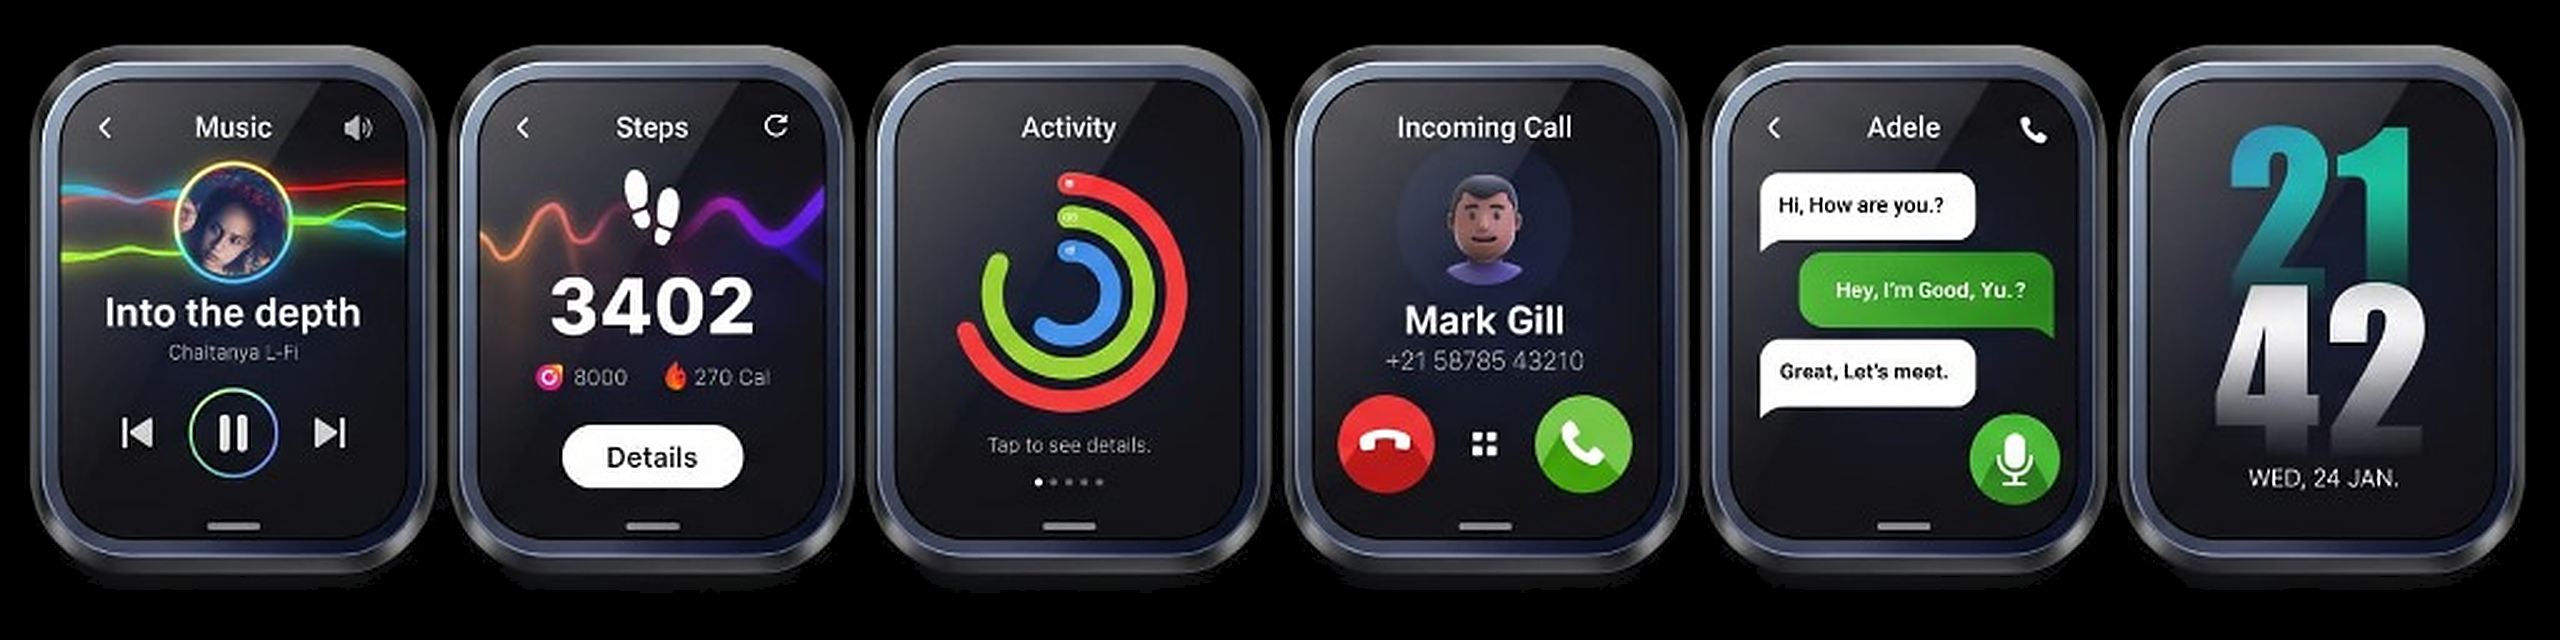
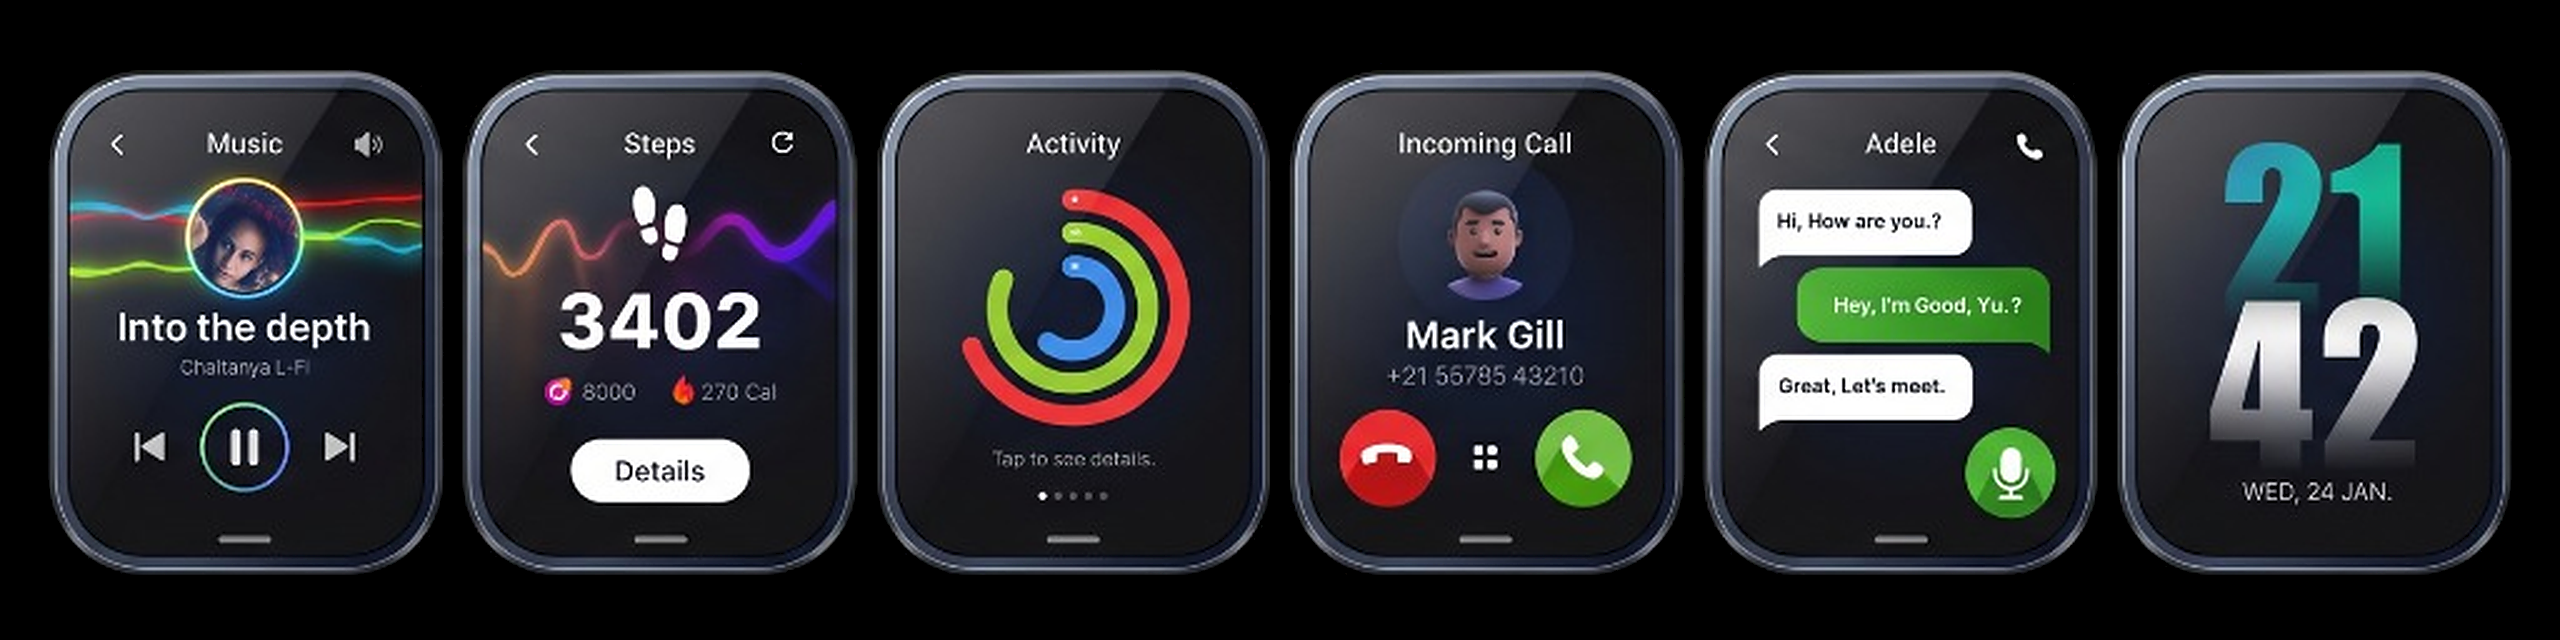
fix: update watch faces image and remove double slashes from all badges across the site

diff --git a/components/InteractiveSpecsSection.js b/components/InteractiveSpecsSection.js
@@ -582,7 +582,7 @@ export default function InteractiveSpecsSection() {
                   <div className="inline-flex items-center gap-1.5 px-2.5 py-1 rounded-lg bg-[#3a86ff]/10 border border-[#3a86ff]/25 text-[#3a86ff]">
                     <span className="w-1.5 h-1.5 rounded-full bg-[#3a86ff] shadow-[0_0_8px_#3a86ff] animate-pulse" />
                     <span className="font-mono text-[10px] sm:text-xs font-bold tracking-widest uppercase">
-                      01 // AEROSPACE CHASSIS
+                      01 — AEROSPACE CHASSIS
                     </span>
                   </div>
 
@@ -606,7 +606,7 @@ export default function InteractiveSpecsSection() {
 
                 {/* Subtitle */}
                 <p className="font-mono text-[11px] sm:text-xs text-[#3a86ff] font-medium tracking-wide mb-2 sm:mb-2.5">
-                  Ti-6Al-4V Aerospace Ingot // 5-Axis CNC Facets
+                  Ti-6Al-4V Aerospace Ingot • 5-Axis CNC Facets
                 </p>
 
                 {/* Description */}
@@ -659,7 +659,7 @@ export default function InteractiveSpecsSection() {
                   <div className="inline-flex items-center gap-1.5 px-2.5 py-1 rounded-lg bg-[#3a86ff]/10 border border-[#3a86ff]/25 text-[#3a86ff]">
                     <span className="w-1.5 h-1.5 rounded-full bg-[#3a86ff] shadow-[0_0_8px_#3a86ff] animate-pulse" />
                     <span className="font-mono text-[10px] sm:text-xs font-bold tracking-widest uppercase">
-                      03 // BIONIC CORE
+                      03 — BIONIC CORE
                     </span>
                   </div>
 
@@ -683,7 +683,7 @@ export default function InteractiveSpecsSection() {
 
                 {/* Subtitle */}
                 <p className="font-mono text-[11px] sm:text-xs text-[#3a86ff] font-medium tracking-wide mb-2 sm:mb-2.5">
-                  4nm Neural Silicon Substrate // 8-Ch Optical Array
+                  4nm Neural Silicon Substrate • 8-Ch Optical Array
                 </p>
 
                 {/* Description */}
@@ -721,7 +721,7 @@ export default function InteractiveSpecsSection() {
                 {/* Clean Feature Line */}
                 <div className="mt-2.5 pt-2 border-t border-white/5 flex items-center gap-2 text-[10px] sm:text-[11px] font-mono text-slate-300">
                   <Compass className="w-3.5 h-3.5 text-[#3a86ff] flex-shrink-0" />
-                  <span className="truncate">±0.001 ms Atomic Accuracy // Real-time Telemetry</span>
+                  <span className="truncate">±0.001 ms Atomic Accuracy • Real-time Telemetry</span>
                 </div>
               </div>
 
@@ -744,7 +744,7 @@ export default function InteractiveSpecsSection() {
                   <div className="inline-flex items-center gap-1.5 px-2.5 py-1 rounded-lg bg-[#3a86ff]/10 border border-[#3a86ff]/25 text-[#3a86ff]">
                     <span className="w-1.5 h-1.5 rounded-full bg-[#3a86ff] shadow-[0_0_8px_#3a86ff] animate-pulse" />
                     <span className="font-mono text-[10px] sm:text-xs font-bold tracking-widest uppercase">
-                      02 // OPTICAL SHIELD
+                      02 — OPTICAL SHIELD
                     </span>
                   </div>
 
@@ -768,7 +768,7 @@ export default function InteractiveSpecsSection() {
 
                 {/* Subtitle */}
                 <p className="font-mono text-[11px] sm:text-xs text-[#3a86ff] font-medium tracking-wide mb-2 sm:mb-2.5">
-                  Dual-Curved Synthetic Sapphire // 120Hz Dynamic
+                  Dual-Curved Synthetic Sapphire • 120Hz Dynamic
                 </p>
 
                 {/* Description */}
@@ -806,7 +806,7 @@ export default function InteractiveSpecsSection() {
                 {/* Clean Feature Line */}
                 <div className="mt-2.5 pt-2 border-t border-white/5 flex items-center gap-2 text-[10px] sm:text-[11px] font-mono text-slate-300">
                   <Cpu className="w-3.5 h-3.5 text-[#3a86ff] flex-shrink-0" />
-                  <span className="truncate">480 × 480 Resolution // 454 PPI True Retina</span>
+                  <span className="truncate">480 × 480 Resolution • 454 PPI True Retina</span>
                 </div>
               </div>
 
@@ -821,7 +821,7 @@ export default function InteractiveSpecsSection() {
                   <div className="inline-flex items-center gap-1.5 px-2.5 py-1 rounded-lg bg-[#3a86ff]/10 border border-[#3a86ff]/25 text-[#3a86ff]">
                     <span className="w-1.5 h-1.5 rounded-full bg-[#3a86ff] shadow-[0_0_8px_#3a86ff] animate-pulse" />
                     <span className="font-mono text-[10px] sm:text-xs font-bold tracking-widest uppercase">
-                      04 // HERMETIC SEAL & POWER
+                      04 — HERMETIC SEAL & POWER
                     </span>
                   </div>
 
@@ -845,9 +845,9 @@ export default function InteractiveSpecsSection() {
 
                 {/* Subtitle */}
                 <p className="font-mono text-[11px] sm:text-xs text-[#3a86ff] font-medium tracking-wide mb-2 sm:mb-2.5">
-                  Solid Polymer Battery // 100% Helium Chamber Tested
+                  Solid Polymer Battery • 100% Helium Chamber Tested
                 </p>
-
+                
                 {/* Description */}
                 <p className="text-slate-300 text-xs sm:text-sm font-light leading-relaxed mb-3 sm:mb-3.5 line-clamp-2 sm:line-clamp-none">
                   Chamber-tested with 100% helium sniffer verification to ensure absolute water resistance up to 10 ATM. Solid polymer battery matrix delivers up to 72 hours of uninterrupted biometrics.
@@ -883,7 +883,7 @@ export default function InteractiveSpecsSection() {
                 {/* Clean Feature Line */}
                 <div className="mt-2.5 pt-2 border-t border-white/5 flex items-center gap-2 text-[10px] sm:text-[11px] font-mono text-slate-300">
                   <Zap className="w-3.5 h-3.5 text-[#3a86ff] flex-shrink-0" />
-                  <span className="truncate">Rapid Magnetic Induction // 0–80% in 35 Minutes</span>
+                  <span className="truncate">Rapid Magnetic Induction • 0–80% in 35 Minutes</span>
                 </div>
               </div>
 
@@ -909,7 +909,7 @@ export default function InteractiveSpecsSection() {
               <div className="inline-flex items-center gap-1.5 px-2.5 py-1 rounded-lg bg-[#3a86ff]/10 border border-[#3a86ff]/25 mb-2 sm:mb-2.5 text-[#3a86ff]">
                 <span className="w-1.5 h-1.5 rounded-full bg-[#3a86ff] shadow-[0_0_8px_#3a86ff] animate-pulse" />
                 <span className="font-mono text-[9px] sm:text-xs font-bold tracking-widest uppercase">
-                  TECHNICAL BLUEPRINT // COMPLETE MATRIX
+                  TECHNICAL BLUEPRINT & SPECIFICATIONS
                 </span>
               </div>
 
@@ -935,7 +935,7 @@ export default function InteractiveSpecsSection() {
                     Grade 5 Ti-6Al-4V
                   </strong>
                   <span className="text-[10px] sm:text-xs text-[#3a86ff] font-mono mt-0.5 block truncate">
-                    64g // 3,200 HV DLC
+                    64g • 3,200 HV DLC
                   </span>
                 </div>
 
@@ -951,7 +951,7 @@ export default function InteractiveSpecsSection() {
                     Ultra AMOLED
                   </strong>
                   <span className="text-[10px] sm:text-xs text-[#3a86ff] font-mono mt-0.5 block truncate">
-                    3,000 Nits // Mohs 9
+                    3,000 Nits • Mohs 9
                   </span>
                 </div>
 
@@ -967,7 +967,7 @@ export default function InteractiveSpecsSection() {
                     Neural S-01
                   </strong>
                   <span className="text-[10px] sm:text-xs text-[#3a86ff] font-mono mt-0.5 block truncate">
-                    4nm // 1,000Hz Bio
+                    4nm • 1,000Hz Bio
                   </span>
                 </div>
 
@@ -983,7 +983,7 @@ export default function InteractiveSpecsSection() {
                     10 ATM / 100M
                   </strong>
                   <span className="text-[10px] sm:text-xs text-[#3a86ff] font-mono mt-0.5 block truncate">
-                    72h // Fast Charge
+                    72h • Fast Charge
                   </span>
                 </div>
               </div>

diff --git a/components/ColorScrollerSection.js b/components/ColorScrollerSection.js
@@ -16,8 +16,8 @@ const FINISH_STAGES = [
     range: [1, 58],
     scrollTarget: 0.10,
     name: 'DLC Stealth Obsidian',
-    subtitle: 'Diamond-Like Carbon // Deep Space Black',
-    tag: 'FINISH 01 // VAPOR DEPOSITION',
+    subtitle: 'Diamond-Like Carbon — Deep Space Black',
+    tag: 'FINISH 01 — VAPOR DEPOSITION',
     description:
       'Vapor-deposited diamond crystalline matrix bonded at 400°C. Absorbs 99.2% of incident light with zero reflection, engineered for extreme covert durability.',
     swatchBg: '#18181b',
@@ -36,8 +36,8 @@ const FINISH_STAGES = [
     range: [59, 115],
     scrollTarget: 0.36,
     name: 'Natural Titanium Satin',
-    subtitle: 'Grade 5 Ti-6Al-4V // Directional Satin Brush',
-    tag: 'FINISH 02 // RAW METALLURGY',
+    subtitle: 'Grade 5 Ti-6Al-4V — Directional Satin Brush',
+    tag: 'FINISH 02 — RAW METALLURGY',
     description:
       'Sculpted from a single solid aerospace ingot. Hand-finished with micro-abrasive directional satin brushing to exhibit the raw silvery luster of Grade 5 titanium.',
     swatchBg: '#e2e8f0',
@@ -56,8 +56,8 @@ const FINISH_STAGES = [
     range: [116, 172],
     scrollTarget: 0.62,
     name: 'Crimson Burgundy Atelier',
-    subtitle: 'Micro-Arc Ceramic Anodization // Wine Red',
-    tag: 'FINISH 03 // ANODIZED COUTURE',
+    subtitle: 'Micro-Arc Ceramic Anodization — Wine Red',
+    tag: 'FINISH 03 — ANODIZED COUTURE',
     description:
       'Deep crimson wine-red anodized bezel paired with midnight burgundy link accents. Built for unmistakable presence, balancing technical prowess with haute horology.',
     swatchBg: '#881337',
@@ -76,8 +76,8 @@ const FINISH_STAGES = [
     range: [173, 239],
     scrollTarget: 0.88,
     name: 'Frosted Azure Platinum',
-    subtitle: 'High-Luster Cold Steel // Mirror Chamfers',
-    tag: 'FINISH 04 // LIQUID METAL',
+    subtitle: 'High-Luster Cold Steel — Mirror Chamfers',
+    tag: 'FINISH 04 — LIQUID METAL',
     description:
       'Precision electropolished to mirror brilliance with hand-beveled chamfers. High-density cold-forged luster creates an unyielding luxury timepiece presence.',
     swatchBg: '#38bdf8',
@@ -509,7 +509,7 @@ export default function ColorScrollerSection() {
                 </span>
               </div>
               <div className="flex items-center justify-between text-[10px] font-mono text-slate-300 pt-1 border-t border-white/10">
-                <span className="text-[#3a86ff] truncate">{currentStage.subtitle.split('//')[0].trim()}</span>
+                <span className="text-[#3a86ff] truncate">{currentStage.subtitle.split(/[//—\-]/)[0].trim()}</span>
                 <span className="text-slate-400 flex-shrink-0 ml-2">
                   {currentStage.specs[0].val} • {currentStage.specs[2].val.replace(' Ultra-Dense', '')}
                 </span>

diff --git a/components/PurchaseSection.js b/components/PurchaseSection.js
@@ -84,7 +84,7 @@ export default function PurchaseSection() {
               <div className="relative z-10 flex items-center justify-between w-full">
                 <div className="inline-flex items-center gap-2 px-3 py-1 rounded-full bg-black/60 border border-emerald-500/40 text-emerald-400 font-mono text-[10px] font-semibold tracking-wider backdrop-blur-md">
                   <span className="w-1.5 h-1.5 rounded-full bg-emerald-400 animate-ping" />
-                  <span>IN-STOCK // BATCH 01</span>
+                  <span>IN-STOCK — BATCH 01</span>
                 </div>
                 <div className="font-mono text-[10px] text-slate-400 tracking-widest px-2.5 py-1 rounded-full bg-white/5 border border-white/10 backdrop-blur-md">
                   45MM • TI-6AL-4V
@@ -148,7 +148,7 @@ export default function PurchaseSection() {
               {/* Product Title & Serial Numbering */}
               <div className="flex items-center justify-between mb-3">
                 <span className="font-mono text-xs text-[#3a86ff] font-semibold tracking-widest uppercase">
-                  DIRECT ATELIER ALLOCATION // EDITION 01
+                  DIRECT ATELIER ALLOCATION — EDITION 01
                 </span>
                 <span className="font-mono text-[11px] text-slate-500 bg-white/5 border border-white/10 px-2.5 py-0.5 rounded">
                   SERIAL #0147 / 0500
@@ -331,7 +331,7 @@ export default function PurchaseSection() {
               <form onSubmit={handleOrder} className="flex flex-col">
                 <div className="flex items-center gap-2 font-mono text-xs text-[#3a86ff] font-semibold mb-2">
                   <span className="w-2 h-2 rounded-full bg-[#3a86ff] animate-pulse" />
-                  <span>BATCH 01 // DIRECT FACTORY RESERVATION</span>
+                  <span>BATCH 01 — DIRECT FACTORY RESERVATION</span>
                 </div>
 
                 <h3 className="font-heading font-bold text-2xl sm:text-3xl text-white mb-4">

diff --git a/components/WatchFacesSection.js b/components/WatchFacesSection.js
@@ -15,7 +15,7 @@ export default function WatchFacesSection() {
           <div className="inline-flex items-center gap-2 mb-2 sm:mb-2.5">
             <span className="w-4 sm:w-5 h-[1.5px] bg-[#3a86ff] rounded-full" />
             <span className="font-mono text-[10px] sm:text-xs font-semibold tracking-[0.2em] text-[#3a86ff] uppercase">
-              VELTRIX OS // DYNAMIC INTERFACES
+              VELTRIX DYNAMIC INTERFACES
             </span>
           </div>
           <h2 className="text-2xl sm:text-3xl md:text-4xl lg:text-5xl font-extrabold text-white tracking-tight leading-tight">
@@ -29,7 +29,7 @@ export default function WatchFacesSection() {
         {/* Showcase 1 Image */}
         <div className="w-full max-w-5xl lg:max-w-6xl mx-auto relative z-10 flex items-center justify-center px-4 sm:px-6">
           <img
-            src="/images/smart-interfaces-fullscreen.png?v=v2new"
+            src="/images/smart-interfaces-fullscreen.png?v=v3clean"
             alt="VELTRIX Smart Watch Interfaces and Features"
             className="w-full h-auto block"
             loading="eager"
@@ -46,7 +46,7 @@ export default function WatchFacesSection() {
           <div className="inline-flex items-center gap-2 mb-2 sm:mb-2.5">
             <span className="w-4 sm:w-5 h-[1.5px] bg-[#3a86ff] rounded-full" />
             <span className="font-mono text-[10px] sm:text-xs font-semibold tracking-[0.2em] text-[#3a86ff] uppercase">
-              ATHLETIC TELEMETRY // REAL-TIME METRICS
+              ATHLETIC PERFORMANCE TELEMETRY
             </span>
           </div>
           <h2 className="text-2xl sm:text-3xl md:text-4xl lg:text-5xl font-extrabold text-white tracking-tight leading-tight">

diff --git a/components/WatchScrollCanvas.js b/components/WatchScrollCanvas.js
@@ -218,7 +218,7 @@ export default function WatchScrollCanvas() {
           <div className="bg-neutral-950/85 backdrop-blur-xl border border-[#001d3d]/50 px-5 py-3 rounded-full flex items-center gap-3 shadow-[0_0_30px_rgba(0,29,61,0.35)]">
             <div className="w-4 h-4 border-2 border-[#3a86ff]/20 border-t-[#3a86ff] rounded-full animate-spin flex-shrink-0" />
             <div className="font-mono text-[11px] text-slate-300 tracking-wider">
-              INITIALIZING 3D ENGINE <span className="text-[#3a86ff] font-bold">// {progressPct}%</span>
+              INITIALIZING 3D ENGINE <span className="text-[#3a86ff] font-bold">— {progressPct}%</span>
             </div>
           </div>
         </div>
@@ -233,7 +233,7 @@ export default function WatchScrollCanvas() {
         <div className="absolute top-5 sm:top-6 left-1/2 -translate-x-1/2 z-20 flex items-center gap-2 px-3.5 sm:px-4 py-1.5 sm:py-2 bg-neutral-950/85 border border-[#001d3d]/40 rounded-full backdrop-blur-xl shadow-lg pointer-events-none max-w-[90vw]">
           <span className="w-2 h-2 rounded-full bg-[#3a86ff] animate-pulse flex-shrink-0" />
           <span className="font-mono text-[10px] sm:text-[11px] text-[#3a86ff] font-semibold tracking-widest uppercase truncate">
-            VELTRIX // 3D APEX HOROLOGY
+            VELTRIX — 3D APEX HOROLOGY
           </span>
           <span className="text-white/20 font-mono text-xs">|</span>
           <span className="font-mono text-[10px] sm:text-[11px] text-slate-300 tracking-wider truncate">

diff --git a/components/ProductsSection.js b/components/ProductsSection.js
@@ -7,7 +7,7 @@ const EDITIONS = [
   {
     id: 'chrome-silver',
     name: 'Chrome Silver 2.0',
-    category: 'METALLIC // CHROME SILVER',
+    category: 'METALLIC — CHROME SILVER',
     price: '$499',
     inr: '₹42,500',
     image: '/products/mood_chrome_silver.webp',
@@ -38,7 +38,7 @@ const EDITIONS = [
   {
     id: 'gunmetal-black',
     name: 'Gunmetal Black 2.0',
-    category: 'TACTICAL // GUNMETAL DLC',
+    category: 'TACTICAL — GUNMETAL DLC',
     price: '$479',
     inr: '₹40,800',
     image: '/products/mood_gunmetal_black.webp',
@@ -69,7 +69,7 @@ const EDITIONS = [
   {
     id: 'ice-blue',
     name: 'Ice Blue',
-    category: 'EXPLORATION // ALPINE WEAVE',
+    category: 'EXPLORATION — ALPINE WEAVE',
     price: '$449',
     inr: '₹38,200',
     image: '/products/mood_ice_blue.webp',
@@ -100,7 +100,7 @@ const EDITIONS = [
   {
     id: 'dark-green',
     name: 'Dark Green',
-    category: 'SPORT // DEEP FOREST',
+    category: 'SPORT — DEEP FOREST',
     price: '$429',
     inr: '₹36,500',
     image: '/products/mood_dark_green.webp',

diff --git a/app/layout.js b/app/layout.js
@@ -1,7 +1,7 @@
 import './globals.css';
 
 export const metadata = {
-  title: 'VELTRIX // Titanium Smartwatch',
+  title: 'VELTRIX — Titanium Smartwatch',
   description: 'Pure 3D interactive scroll-driven horology showcase built with Next.js, Tailwind CSS and JavaScript.',
   icons: {
     icon: [
